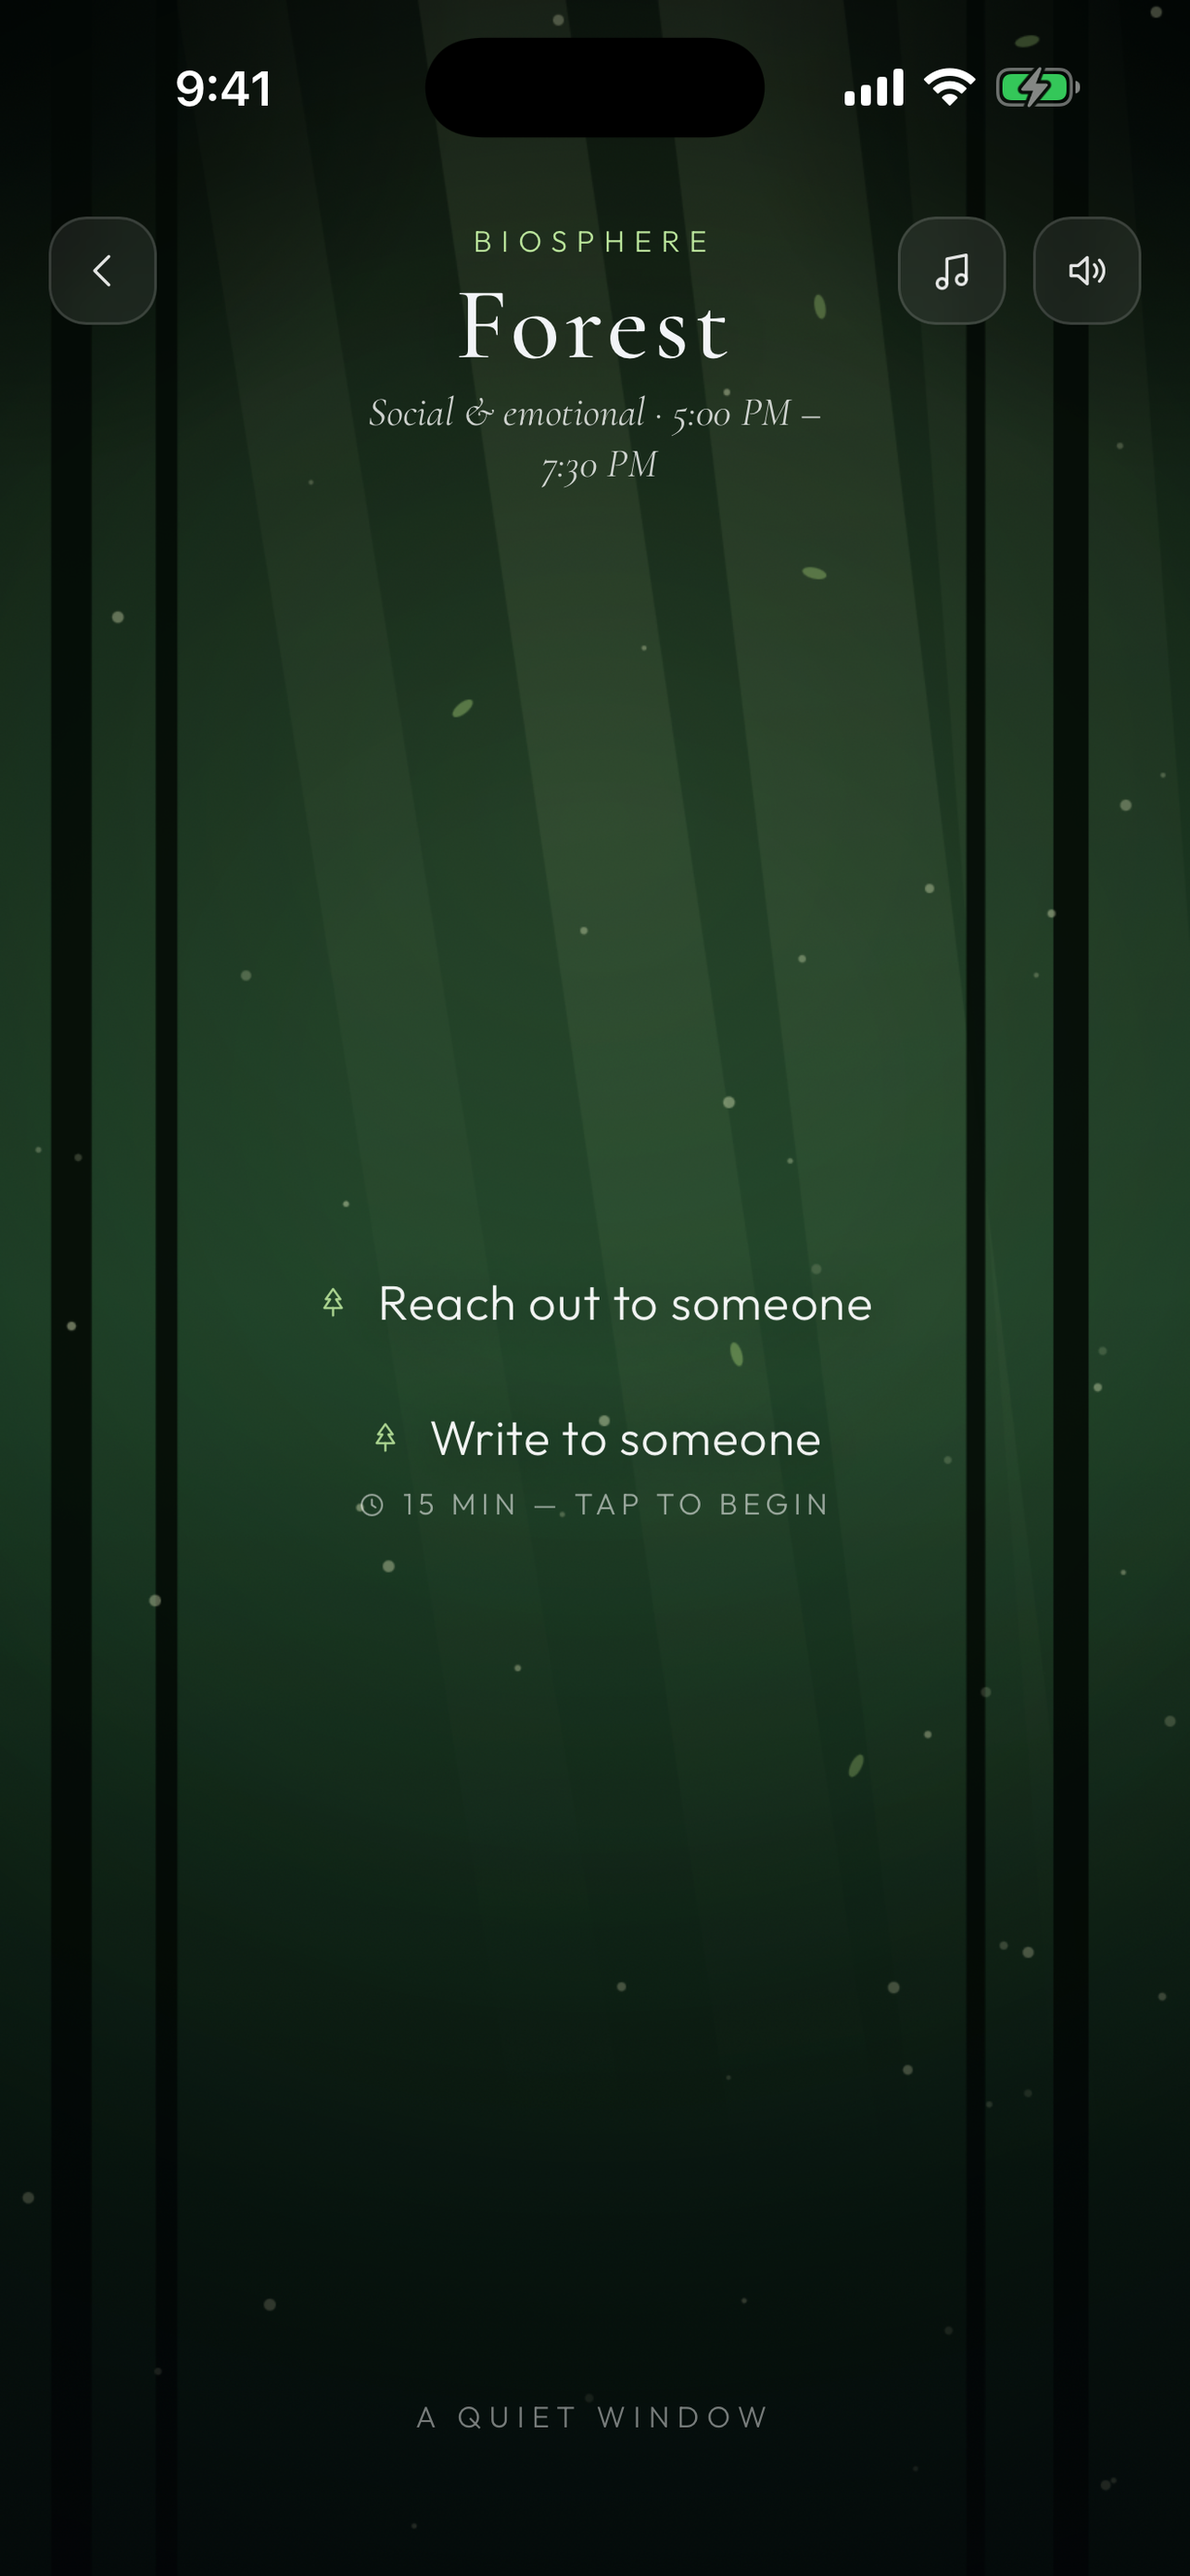
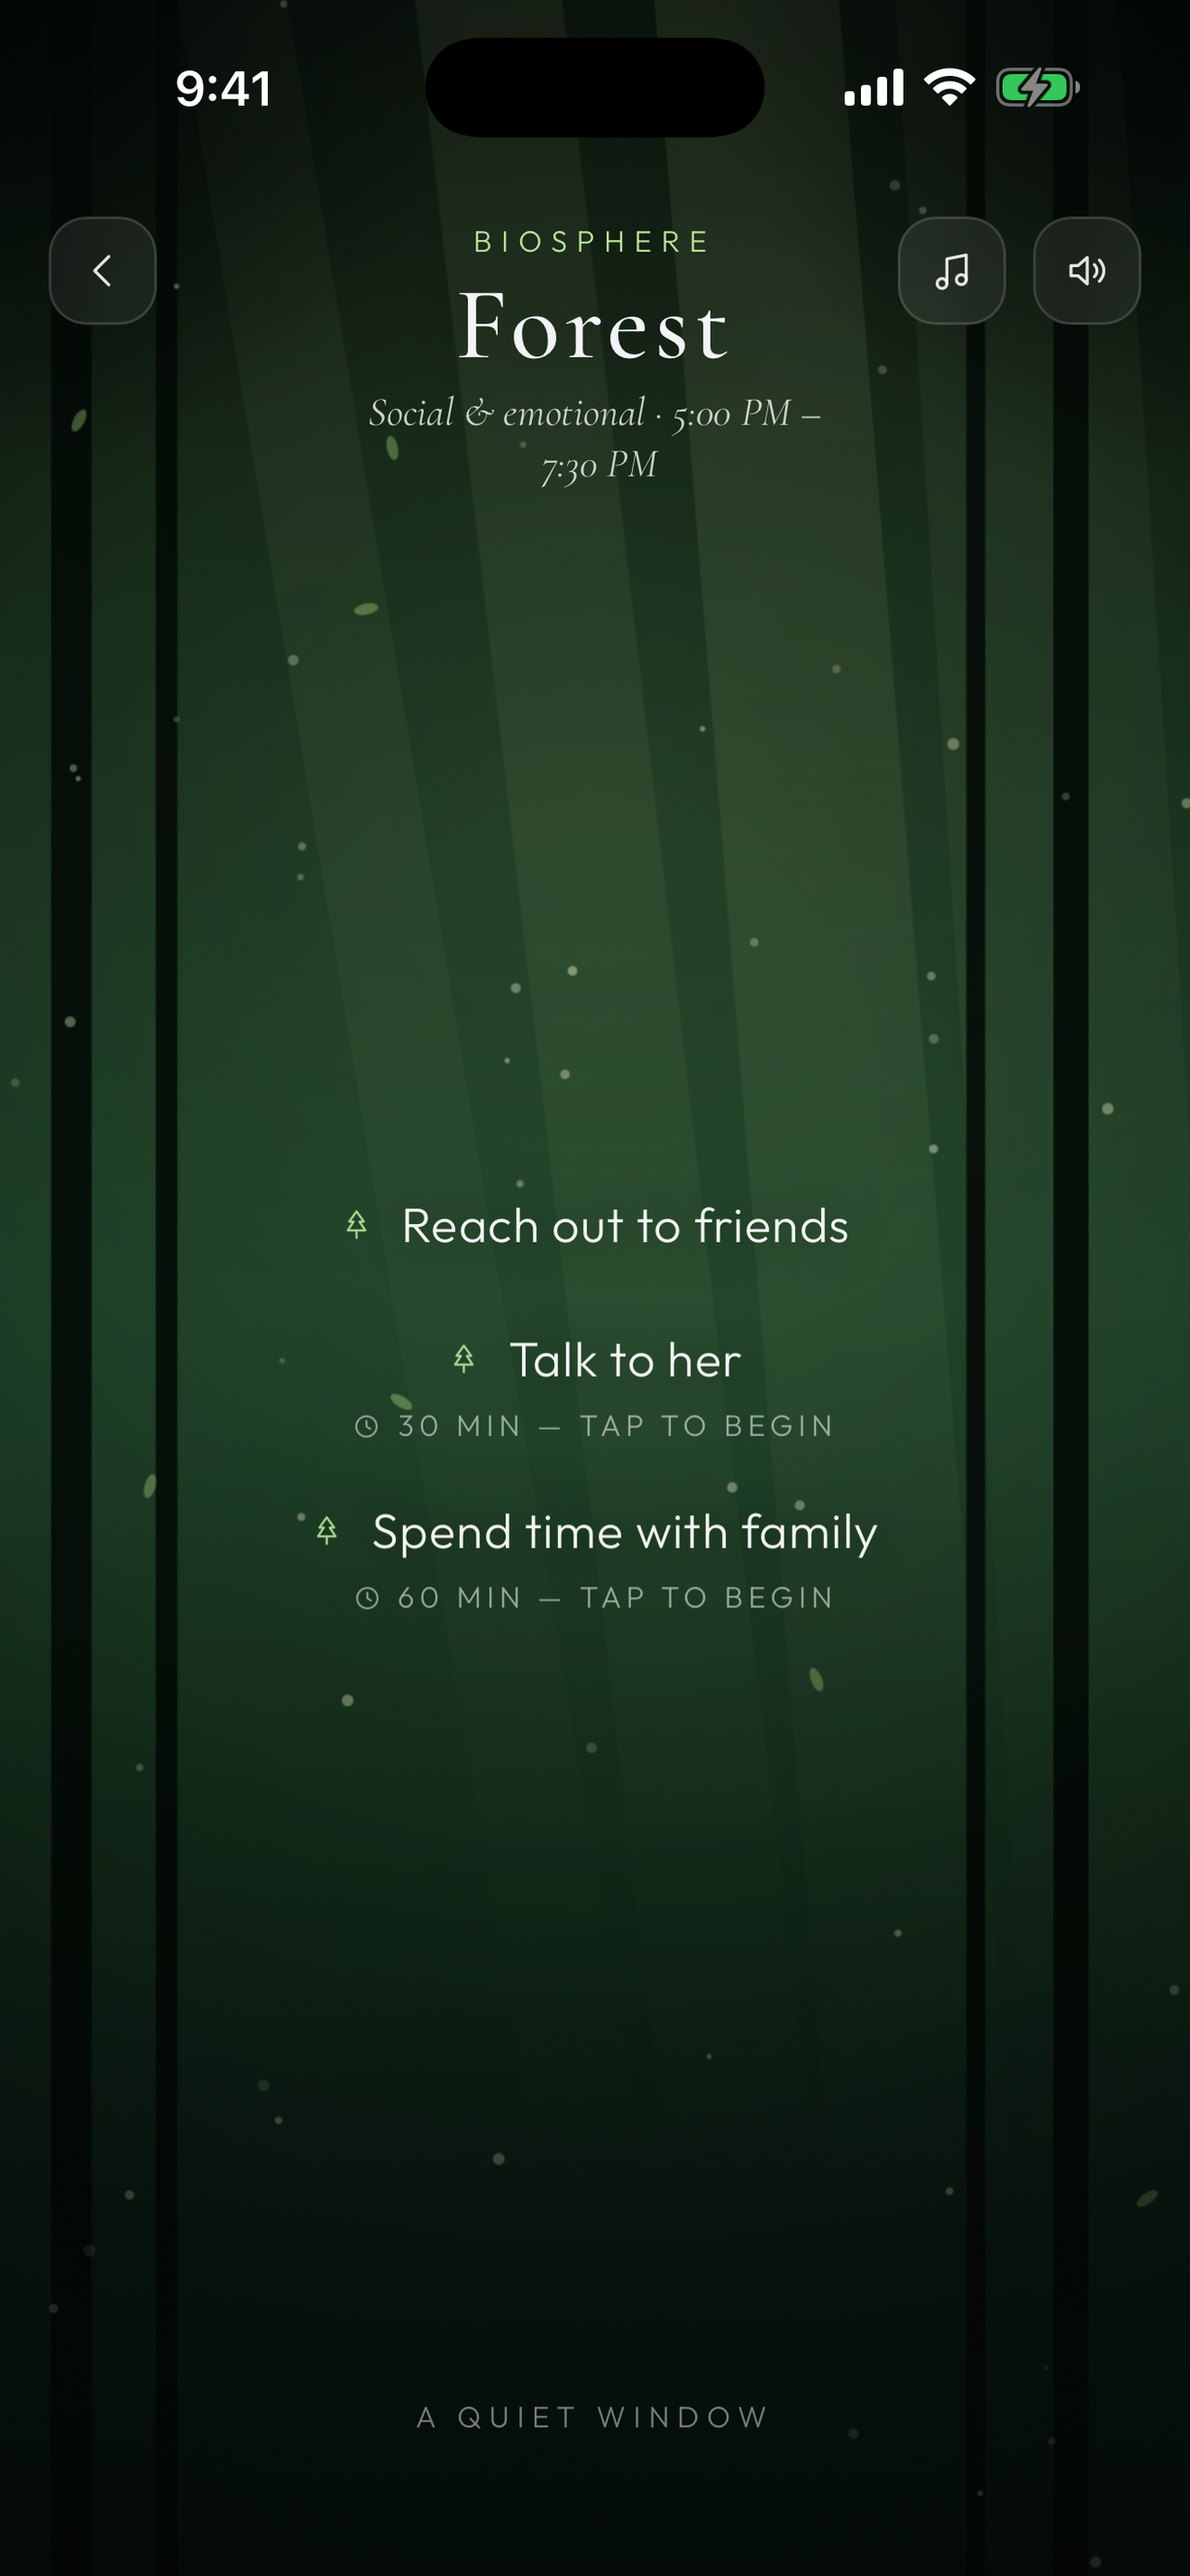
Reshoot Volcanic and Forest with the owner's own habits
Three each, in the owner's words rather than mine: Push Workout, Cardio and
Ab Routine in Volcanic; Reach out to friends, Talk to her, and Spend time
with family in Forest. The previous pass used names invented here as
placeholders, which was the right way to show the composition and the wrong
thing to publish — an App Store page should carry the owner's words.

Still seed-only. DEFAULT_HABITS is untouched; nothing about the shipped app
changes.

The pairing still does the work it was shot for: Volcanic is the current
hour, glowing and counting down, while Forest is deliberately out of hours,
so its header reads BIOSPHERE rather than NOW and its footer reads "a quiet
window". A biosphere is somewhere you can step into either way.

Changed region(s): [[0.3115, 0.4644, 0.7165, 0.6192], [0.9969, 0.3096, 1.0, 0.3405]]

diff --git a/assets/screenshots/README.md b/assets/screenshots/README.md
@@ -31,7 +31,9 @@ width 1284, `extract` from top 0 to height 2778.
 | `06-volcanic.png` | Volcanic at its hour — two habits, both timed |
 | `07-forest.png` | Forest out of hours — light shafts, and *a quiet window* |
 
-`06` and `07` were added 2026-08-30 at the owner's request, to show more than one world. Their seed gives Volcanic and Forest a **second habit each** — *The hard thing, first* and *Write to someone* — because one habit photographs as an empty world. **Those two names are props, not product**: they exist only in the screenshot seed, never in `DEFAULT_HABITS`, and should be changed if they do not sound like the owner. Forest was shot deliberately out of hours, so its footer reads *a quiet window* rather than a countdown.
+`06` and `07` were added 2026-08-30 at the owner's request, to show more than one world. The habits in them are **the owner's own**: Volcanic carries *Push Workout*, *Cardio* and *Ab Routine*; Forest carries *Reach out to friends*, *Talk to her* and *Spend time with family*. An earlier pass used names invented here as placeholders; they were replaced, because words on an App Store page should be the owner's. They live in the screenshot seed only, never in `DEFAULT_HABITS` — the shipped defaults are unchanged.
+
+Forest was shot deliberately out of hours, so its header reads `BIOSPHERE` rather than `NOW` and its footer reads *a quiet window* instead of a countdown. Between the two, they show that a biosphere is somewhere you can step into whether or not it is your hour.
 
 Extras, not part of the five: `extra-day-complete.png` (*The day is complete* —
 an alternative to 04) and `03-night-question-empty.png` (the question with an
